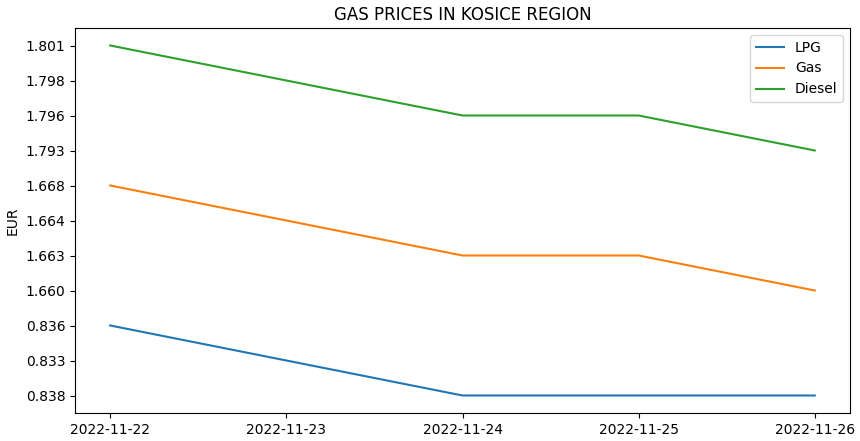
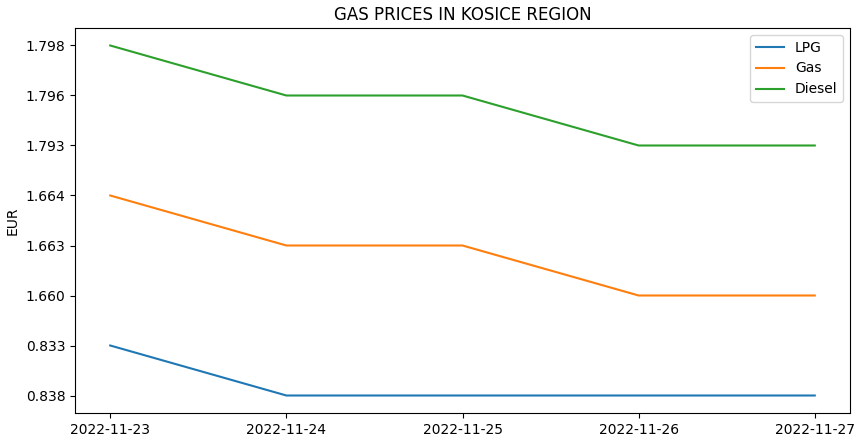
Updating web: 2022-11-27 06:11:05.517189

diff --git a/index.html b/index.html
@@ -15,9 +15,9 @@
   <body>
     <main>
       <header>
-        <h1>Today is Saturday, November 26th</h1>
-        <span>week 47, day 330 of the year</span>
-        <span>Today celebrates Kornel</span>
+        <h1>Today is Sunday, November 27th</h1>
+        <span>week 47, day 331 of the year</span>
+        <span>Today celebrates Milan</span>
       </header>
       <modal class="hidden">
         <div class="modal"></div>
@@ -31,27 +31,27 @@
           </article>
           <article class="aktuality">
             <h2>Aktuality</h2>
-            <div> ♦ <a href=https://www.aktuality.sk/clanok/kiLN4qq/poprad-zazil-prvy-bojkot-poslancov-v-historii-ani-to-neviem-vyslovit-hovoril-primator-danko/ target="_blank">Poprad zažil prvý bojkot poslancov v histórii. Ani to neviem vysloviť, hovoril primátor Danko</a></div><div> ♦ <a href=https://www.aktuality.sk/clanok/qcbd1VM/nocny-poziar-v-bytovom-dome-v-presove-si-vyziadal-dve-obete/ target="_blank">Nočný požiar v bytovom dome v Prešove si vyžiadal dve obete</a></div><div> ♦ <a href=https://www.aktuality.sk/clanok/B55z9v0/matovic-tvrdi-ze-sefovi-lekarskych-odborov-ponukal-funkciu-ministra-zdravotnictva/ target="_blank">Matovič tvrdí, že šéfovi lekárskych odborov ponúkal funkciu ministra zdravotníctva</a></div><div> ♦ <a href=https://www.aktuality.sk/clanok/HPPC12e/na-rovinu-s-tomasom-druckerom-lekari-mali-vziat-ponuku-vlady-s-dzurindom-sme-hovorili-o-strane/ target="_blank">NA ROVINU s Tomášom Druckerom: Lekári mali vziať ponuku vlády. S Dzurindom sme hovorili o strane</a></div><div> ♦ <a href=https://www.aktuality.sk/clanok/O7QfOoq/milan-lucansky-spachal-samovrazdu-konstatuje-vysetrovanie/ target="_blank">Milan Lučanský spáchal samovraždu, konštatuje vyšetrovanie</a></div>
+            <div> ♦ <a href=https://www.aktuality.sk/clanok/VeUVWkL/herecka-zdena-studenkova-dala-vypoved-v-snd/ target="_blank">Herečka Zdena Studenková dala výpoveď v SND</a></div><div> ♦ <a href=https://www.aktuality.sk/clanok/p1pHGeF/vypovede-lekarov-odborari-a-vlada-sa-dohodli/ target="_blank">Výpovede lekárov: Odborári a vláda sa dohodli</a></div><div> ♦ <a href=https://www.aktuality.sk/clanok/tYy2Fsb/briti-upozornili-na-miesto-kde-podla-nich-moze-povolit-ruska-obrana/ target="_blank">Briti upozornili na miesto, kde podľa nich môže povoliť ruská obrana</a></div><div> ♦ <a href=https://www.aktuality.sk/clanok/keawY7O/igor-matovic-uz-nebude-rokovat-s-lekarskymi-odbormi-dohodu-nechava-na-premierovi/ target="_blank">Igor Matovič už nebude rokovať s lekárskymi odbormi, dohodu necháva na premiérovi</a></div><div> ♦ <a href=https://www.aktuality.sk/clanok/QWIBxT7/lekarski-odborari-trvaju-na-zvysovani-platov-vratane-odmenovania-za-odpracovane-roky/ target="_blank">Lekárski odborári trvajú na zvyšovaní platov vrátane odmeňovania za odpracované roky</a></div>
           </article>
           <article class="rtvs">
             <h2>RTVS</h2>
-            <div class="rtvs1"><div> ♦ <a href=https://spravy.rtvs.sk/2022/11/zelenskyj-vyse-sest-milionov-domacnosti-je-stale-postihnutych-vypadkami-elektriny/ target="_blank">Zelenskyj: Vyše šesť miliónov domácností je stále postihnutých výpadkami elektriny</a></div><div> ♦ <a href=https://spravy.rtvs.sk/2022/11/ms-vo-futbale-2022-anglicania-nevyuzili-sancu-na-zaistenie-postupu-do-osemfinale/ target="_blank">MS vo futbale 2022: Angličania nevyužili šancu na zaistenie postupu do osemfinále</a></div><div> ♦ <a href=https://spravy.rtvs.sk/2022/11/pri-strelbe-na-dvoch-brazilskych-skolach-zahynuli-najmenej-traja-ludia/ target="_blank">Pri streľbe na dvoch brazílskych školách zahynuli najmenej traja ľudia</a></div><div> ♦ <a href=https://spravy.rtvs.sk/2022/11/sucasny-sef-bratislavskej-statnej-zachranky-neuspel-vo-vyberovom-konani-na-riaditela/ target="_blank">Súčasný šéf bratislavskej štátnej záchranky neuspel vo výberovom konaní na riaditeľa</a></div><div> ♦ <a href=https://spravy.rtvs.sk/2022/11/papez-frantisek-si-pripomenul-svetovy-den-odstranenia-nasilia-pachaneho-na-zenach/ target="_blank">Pápež František si pripomenul Svetový deň odstránenia násilia páchaného na ženách</a></div><div> ♦ <a href=https://spravy.rtvs.sk/2022/11/zacala-sa-sezona-kurierov-az-do-vianoc-sa-prakticky-nezastavia/ target="_blank">Začala sa sezóna kuriérov, až do Vianoc sa prakticky nezastavia</a></div><div> ♦ <a href=https://spravy.rtvs.sk/2022/11/ruske-ostrelovanie-zabilo-v-chersone-15-civilistov/ target="_blank">Ruské ostreľovanie zabilo v Chersone 15 civilistov</a></div><div> ♦ <a href=https://spravy.rtvs.sk/2022/11/lekarski-odborari-nechcu-slk-za-mediatora-na-rokovaniach-s-vladou/ target="_blank">Lekárski odborári nechcú SLK za mediátora na rokovaniach s vládou</a></div><div> ♦ <a href=https://spravy.rtvs.sk/2022/11/vypovede-lekarov-ohrozia-aj-transplantacie-organov/ target="_blank">Výpovede lekárov ohrozia aj transplantácie orgánov</a></div><div> ♦ <a href=https://spravy.rtvs.sk/2022/11/umeleckej-skole-v-kremnici-hrozi-zanik/ target="_blank">Umeleckej škole v Kremnici hrozí zánik</a></div></div>
+            <div class="rtvs1"><div> ♦ <a href=https://spravy.rtvs.sk/2022/11/ms-vo-futbale-2022-argentina-zdolala-mexiko-a-udrzala-sa-v-hre-o-postup/ target="_blank">MS vo futbale 2022: Argentína zdolala Mexiko a udržala sa v hre o postup</a></div><div> ♦ <a href=https://spravy.rtvs.sk/2022/11/vlada-vyriesila-s-lekarskymi-odborarmi-platy-a-dohodli-sa/ target="_blank">Vláda vyriešila s lekárskymi odborármi platy a dohodli sa</a></div><div> ♦ <a href=https://spravy.rtvs.sk/2022/11/briti-si-myslia-ze-opustit-europsku-uniu-bola-chyba/ target="_blank">Briti si myslia, že opustiť Európsku úniu bola chyba</a></div><div> ♦ <a href=https://spravy.rtvs.sk/2022/11/vlhova-skoncila-v-obrovskom-slalome-na-stvrtom-mieste/ target="_blank">Vlhová skončila v obrovskom slalome na štvrtom mieste</a></div><div> ♦ <a href=https://spravy.rtvs.sk/2022/11/most-v-namestove-je-pretazeny-hrozi-jeho-pad/ target="_blank">Most v Námestove je preťažený, hrozí jeho pád</a></div><div> ♦ <a href=https://spravy.rtvs.sk/2022/11/v-prahe-opat-demonstrovali-stovky-ludi-proti-vlade/ target="_blank">V Prahe opäť demonštrovali stovky ľudí proti vláde</a></div><div> ♦ <a href=https://spravy.rtvs.sk/2022/11/ms-vo-futbale-2022-francuzi-zdolali-danov-a-ako-prvi-postupili-do-osemfinale/ target="_blank">MS vo futbale 2022: Francúzi zdolali Dánov a ako prví postúpili do osemfinále</a></div><div> ♦ <a href=https://spravy.rtvs.sk/2022/11/vypinaju-verejne-osvetlenie-znizuju-teplotu-v-budovach-samospravy-bojuju-s-vysokymi-cenami/ target="_blank">Vypínajú verejné osvetlenie, znižujú teplotu. Samosprávy bojujú s vysokými cenami</a></div><div> ♦ <a href=https://spravy.rtvs.sk/2022/11/matovic-nebude-rokovat-s-loz-dohodu-nechava-na-premierovi/ target="_blank">Matovič nebude rokovať s LOZ, dohodu necháva na premiérovi</a></div><div> ♦ <a href=https://spravy.rtvs.sk/2022/11/v-prazskom-parku-nasli-tri-mrtve-osoby/ target="_blank">V pražskom parku našli tri mŕtve osoby</a></div></div>
             <button class="button-expand">EXPAND</button>
-            <div class="collapse rtvs2 hidden"><div> ♦ <a href=https://spravy.rtvs.sk/2022/11/ms-vo-futbale-2022-holandania-remizovali-s-ekvadorcanmi/ target="_blank">MS vo futbale 2022: Holanďania remizovali s Ekvádorčanmi</a></div><div> ♦ <a href=https://spravy.rtvs.sk/2022/11/mladi-svedski-aktivisti-zaluju-stat-za-neriesenie-klimatickych-otazok/ target="_blank">Mladí švédski aktivisti žalujú štát za neriešenie klimatických otázok</a></div><div> ♦ <a href=https://spravy.rtvs.sk/2022/11/nemecko-planuje-zjednodusit-podmienky-na-ziskanie-obcianstva/ target="_blank">Nemecko plánuje zjednodušiť podmienky na získanie občianstva</a></div><div> ♦ <a href=https://spravy.rtvs.sk/2022/11/ak-lekari-vypovede-nestiahnu-hrozi-kolaps-v-poskytovani-zdravotnej-sluzby/ target="_blank">Ak lekári výpovede nestiahnu, hrozí kolaps v poskytovaní zdravotnej služby</a></div><div> ♦ <a href=https://spravy.rtvs.sk/2022/11/britka-s-downovym-syndromom-prehrala-sudne-pri-ohladom-potratoveho-zakona/ target="_blank">Britka s Downovým syndrómom prehrala súd ohľadom potratového zákona</a></div><div> ♦ <a href=https://spravy.rtvs.sk/2022/11/raper-ye-chce-o-dva-roky-opat-kandidovat-na-post-americkeho-prezidenta/ target="_blank">Raper Ye chce opäť kandidovať na post amerického prezidenta</a></div><div> ♦ <a href=https://spravy.rtvs.sk/2022/11/europol-pri-obrovskom-zatahu-zatkol-44-ludi-sedem-z-nich-bolo-zo-slovenska/ target="_blank">Europol pri obrovskom záťahu zatkol 44 ľudí. Sedem z nich bolo zo Slovenska</a></div><div> ♦ <a href=https://spravy.rtvs.sk/2022/11/ms-vo-futbale-2022-neymar-nenastupi-proti-svajciarom/ target="_blank">MS vo futbale 2022: Neymar nenastúpi proti Švajčiarom</a></div><div> ♦ <a href=https://spravy.rtvs.sk/2022/11/dalsi-lekari-vypovedali-sluzby-na-december/ target="_blank">Ďalší lekári vypovedali služby na december</a></div><div> ♦ <a href=https://spravy.rtvs.sk/2022/11/ms-vo-futbale-2022-senegal-si-pripisal-prve-body-katar-s-dalsou-prehrou/ target="_blank">MS vo futbale 2022: Senegal si pripísal prvé body, Katar s ďalšou prehrou</a></div><div> ♦ <a href=https://spravy.rtvs.sk/2022/11/zamestnanci-amazonu-na-celom-svete-vyzvali-na-strajk-na-tzv-cierny-piatok/ target="_blank">Zamestnanci Amazonu na celom svete vyzvali na štrajk na tzv. čierny piatok</a></div><div> ♦ <a href=https://spravy.rtvs.sk/2022/11/videa-so-strelbou-na-ruskych-zajatcov-su-zrejme-autenticke-no-upravovane/ target="_blank">Videá so streľbou na ruských zajatcov sú zrejme autentické, no upravované</a></div><div> ♦ <a href=https://spravy.rtvs.sk/2022/11/o-post-ceskeho-prezidenta-sa-bude-uchadzat-devat-kandidatov/ target="_blank">O post českého prezidenta sa bude uchádzať deväť kandidátov</a></div><div> ♦ <a href=https://spravy.rtvs.sk/2022/11/prezidentka-proti-nasiliu-na-zenach-sa-musime-postavit-vsetci/ target="_blank">Prezidentka: Proti násiliu na ženách sa musíme postaviť všetci</a></div><div> ♦ <a href=https://spravy.rtvs.sk/2022/11/dodavky-prudu-sa-na-ukrajine-podarilo-obnovit-na-70-percent/ target="_blank">Dodávky prúdu sa na Ukrajine podarilo obnoviť na 70 percent</a></div><div> ♦ <a href=https://spravy.rtvs.sk/2022/11/unb-uz-neobjednava-pacientov-na-planovane-operacie-v-decembri/ target="_blank">UNB už neobjednáva pacientov na plánované operácie v decembri</a></div><div> ♦ <a href=https://spravy.rtvs.sk/2022/11/fifa-povolila-fanusikom-nosit-duhove-symboly-na-ms-v-katare/ target="_blank">FIFA povolila fanúšikom nosiť dúhové symboly na MS v Katare</a></div><div> ♦ <a href=https://spravy.rtvs.sk/2022/11/loz-premierova-ziadost-o-pomoc-od-krajin-v4-je-hanebnym-spravanim/ target="_blank">LOZ: Premiérova žiadosť o pomoc od krajín V4 je hanebným správaním</a></div><div> ♦ <a href=https://spravy.rtvs.sk/2022/11/zdravotnicki-pracovnici-chcu-systemove-zmeny/ target="_blank">Zdravotnícki pracovníci chcú systémové zmeny</a></div><div> ♦ <a href=https://spravy.rtvs.sk/2022/11/ms-vo-futbale-2022-iran-zdolal-wales-20/ target="_blank">MS vo futbale 2022: Irán zdolal Wales 2:0</a></div><div> ♦ <a href=https://spravy.rtvs.sk/2022/11/operacia-pri-svetle-baterky-rozsiahle-vypadky-energie-komplikuju-zivot-ukrajinskych-lekarov/ target="_blank">Operácia srdca pri svetle baterky. Výpadky energie komplikujú prácu ukrajinským lekárom</a></div><div> ♦ <a href=https://spravy.rtvs.sk/2022/11/fabriku-v-cina-po-protestoch-opustilo-20-000-zamestnancov/ target="_blank">Fabriku v Číne po protestoch opustilo 20  000 zamestnancov</a></div><div> ♦ <a href=https://spravy.rtvs.sk/2022/11/vo-washingtone-sa-podla-kritikov-rodi-protekcionizmus/ target="_blank">Vo Washingtone sa podľa kritikov rodí protekcionizmus</a></div><div> ♦ <a href=https://spravy.rtvs.sk/2022/11/pred-30-rokmi-poslanci-prijali-zakon-o-zaniku-cesko-slovenska/ target="_blank">Pred 30 rokmi poslanci prijali zákon o zániku Česko-Slovenska</a></div><div> ♦ <a href=https://spravy.rtvs.sk/2022/11/na-slovensku-zomrie-rocne-5-000-ludi-na-dosahy-znecistenia-ovzdusia/ target="_blank">Na Slovensku zomrie ročne 5  000 ľudí v dôsledku znečistenia ovzdušia</a></div><div> ♦ <a href=https://spravy.rtvs.sk/2022/11/adolf-peter-zaturecky-zbieral-prislovia-porekadla-a-uslovia/ target="_blank">Adolf Peter Záturecký zbieral príslovia, porekadlá a úslovia</a></div><div> ♦ <a href=https://spravy.rtvs.sk/2022/11/zelenskyj-mier-nebude-kym-sa-krym-nevrati-ukrajine/ target="_blank">Zelenskyj: Mier nebude, kým sa Krym nevráti Ukrajine</a></div><div> ♦ <a href=https://spravy.rtvs.sk/2022/11/polovica-domacnosti-v-kyjeve-je-po-ruskych-utokoch-stale-bez-elektriny/ target="_blank">Polovica domácností v Kyjeve je po ruských útokoch stále bez elektriny</a></div><div> ♦ <a href=https://spravy.rtvs.sk/2022/11/nato-bude-dodavat-vojensku-techniku-ukrajine-aj-pocas-zimy/ target="_blank">NATO bude dodávať vojenskú techniku Ukrajine aj počas zimy</a></div><div> ♦ <a href=https://spravy.rtvs.sk/2022/11/prokuratura-vylucila-cudzie-zavinenie-v-pripade-smrti-milana-lucanskeho/ target="_blank">Prokuratúra vylúčila cudzie zavinenie v prípade smrti Milana Lučanského</a></div><div> ♦ <a href=https://spravy.rtvs.sk/2022/11/sulik-sme-tesne-pred-kolapsom-zdravotnictva/ target="_blank">Sulík: Sme tesne pred kolapsom zdravotníctva</a></div><div> ♦ <a href=https://spravy.rtvs.sk/2022/11/ms-vo-futbale-2022-fanusikovia-v-kostyme-kriziaka-a-rytiera-sa-na-stadion-nedostanu/ target="_blank">MS vo futbale 2022: Fanúšikovia v kostýme križiaka a rytiera sa na štadión nedostanú</a></div><div> ♦ <a href=https://spravy.rtvs.sk/2022/11/pocet-umrti-na-slovensku-na-oktober-opat-presiahol-patrocny-priemer/ target="_blank">Počet úmrtí na Slovensku za október opäť presiahol päťročný priemer</a></div><div> ♦ <a href=https://spravy.rtvs.sk/2022/11/pred-70-rokmi-mala-premieru-najdlhsie-uvadzana-hra-na-svete/ target="_blank">Pred 70 rokmi mala premiéru najdlhšie uvádzaná hra na svete</a></div><div> ♦ <a href=https://spravy.rtvs.sk/2022/11/vitaz-izraelskych-volieb-ide-do-vlady-s-krajnou-pravicou/ target="_blank">Víťaz izraelských volieb ide do vlády s krajnou pravicou</a></div><div> ♦ <a href=https://spravy.rtvs.sk/2022/11/talentovani-studenti-ktori-zostali-studovat-v-sr-zatial-stipendia-nedostali/ target="_blank">Talentovaní študenti, ktorí zostali študovať v SR, zatiaľ štipendiá nedostali</a></div><div> ♦ <a href=https://spravy.rtvs.sk/2022/11/merkelova-priznala-ze-uz-na-putina-nemala-ziadne-paky/ target="_blank">Merkelová priznala, že na Putina už nemala žiadne páky</a></div><div> ♦ <a href=https://spravy.rtvs.sk/2022/11/britske-zdravotne-sestry-budu-strajkovat-prvykrat-po-100-rokoch/ target="_blank">Britské zdravotné sestry budú štrajkovať prvýkrát po 100 rokoch</a></div><div> ♦ <a href=https://spravy.rtvs.sk/2022/11/udzs-podal-trestne-oznamenie-pre-nezakonne-prepoistovanie/ target="_blank">ÚDZS podal trestné oznámenie pre nezákonné prepoisťovanie</a></div><div> ♦ <a href=https://spravy.rtvs.sk/2022/11/rusko-utratilo-za-vojnu-82-miliard-dolarov-pise-ukrajinsky-forbes/ target="_blank">Rusko utratilo za vojnu 82 miliárd dolárov, píše ukrajinský Forbes</a></div><div> ♦ <a href=https://spravy.rtvs.sk/2022/11/iran-informoval-osn-ze-jeho-utoky-na-irak-su-aktom-sebaobrany/ target="_blank">Irán informoval OSN, že jeho útoky na Irak sú aktom sebaobrany</a></div><div> ♦ <a href=https://spravy.rtvs.sk/2022/11/pod-rimskym-koloseom-nasli-kosti-levov-a-jaguarov-ci-semena-fig/ target="_blank">Pod rímskym Koloseom našli kosti levov a jaguárov či semená fíg</a></div><div> ♦ <a href=https://spravy.rtvs.sk/2022/11/v-presove-horel-bytovy-dom-poziar-vysetruju/ target="_blank">Pri požiari bytového domu v Prešove zomreli dvaja ľudia</a></div></div>
+            <div class="collapse rtvs2 hidden"><div> ♦ <a href=https://spravy.rtvs.sk/2022/11/univerzalna-vakcina-proti-chripke-moze-byt-k-dispozicii-do-dvoch-rokov-tvrdi-vedec/ target="_blank">Univerzálna vakcína proti chrípke môže byť k dispozícii do dvoch rokov, tvrdí vedec</a></div><div> ♦ <a href=https://spravy.rtvs.sk/2022/11/ms-vo-futbale-2022-poliaci-triumfovali-nad-saudskou-arabiou/ target="_blank">MS vo futbale 2022: Poliaci triumfovali nad Saudskou Arábiou</a></div><div> ♦ <a href=https://spravy.rtvs.sk/2022/11/vlhova-je-po-prvom-kole-obrovskeho-slalomu-na-stvrtom-mieste/ target="_blank">Vlhová je po prvom kole obrovského slalomu na štvrtom mieste</a></div><div> ♦ <a href=https://spravy.rtvs.sk/2022/11/rusi-zasiahli-obytnu-stvrt-v-dnipre-hlasia-najmenej-sest-zranenych/ target="_blank">Rusi zasiahli obytnú štvrť v Dnipre, hlásia najmenej 13 zranených</a></div><div> ♦ <a href=https://spravy.rtvs.sk/2022/11/nahle-zomrel-bielorusky-minister-zahranicia-vladimir-makei/ target="_blank">Náhle zomrel bieloruský minister zahraničia Vladimir Makei</a></div><div> ♦ <a href=https://spravy.rtvs.sk/2022/11/taiwanska-opozicia-vyhrala-miestne-volby-prezidentka-odchadza-z-cela-strany/ target="_blank">Taiwanská opozícia vyhrala miestne voľby, prezidentka odchádza z čela strany</a></div><div> ♦ <a href=https://spravy.rtvs.sk/2022/11/rusko-zaplati-za-vsetky-obete-stalinskeho-hladomoru-uviedol-ukrajinsky-cinitel/ target="_blank">Rusko zaplatí za všetky obete stalinského hladomoru, uviedol ukrajinský činiteľ</a></div><div> ♦ <a href=https://spravy.rtvs.sk/2022/11/pod-rukou-charlesa-schulza-sa-zrodil-legendarny-snoopy/ target="_blank">Pod rukou Charlesa Schulza sa zrodil legendárny Snoopy</a></div><div> ♦ <a href=https://spravy.rtvs.sk/2022/11/na-kysuciach-pri-celnej-zrazke-auta-s-kamionom-zomreli-dvaja-ludia/ target="_blank">Na Kysuciach pri čelnej zrážke auta s kamiónom zomreli dvaja ľudia</a></div><div> ♦ <a href=https://spravy.rtvs.sk/2022/11/sipos-veri-ze-sa-vlada-s-lekarmi-dohodne-uz-v-sobotu-ak-nie-nevylucil-nudzovy-stav/ target="_blank">Šipoš verí, že sa vláda s lekármi dohodne už v sobotu. Ak nie, tak nevylúčil núdzový stav</a></div><div> ♦ <a href=https://spravy.rtvs.sk/2022/11/ms-vo-futbale-2022-australia-zvitazila-nad-tuniskom/ target="_blank">MS vo futbale 2022: Austrália zvíťazila nad Tuniskom</a></div><div> ♦ <a href=https://spravy.rtvs.sk/2022/11/na-talianskom-ostrove-ischia-je-po-zosuve-pody-nezvestnych-13-ludi/ target="_blank">Zosuv pôdy na ostrove Ischia si vyžiadal jednu obeť, tvrdí starosta Neapola</a></div><div> ♦ <a href=https://spravy.rtvs.sk/2022/11/legendarny-sportovy-reporter-zelenay-sa-narodil-pred-100-rokmi/ target="_blank">Legendárny športový reportér Zelenay sa narodil pred 100 rokmi</a></div><div> ♦ <a href=https://spravy.rtvs.sk/2022/11/jaroslav-skala-zasvatil-svoj-zivot-boju-proti-alkoholizmu/ target="_blank">Jaroslav Skála zasvätil svoj život boju proti alkoholizmu</a></div><div> ♦ <a href=https://spravy.rtvs.sk/2022/11/rusko-nasadilo-na-ukrajine-strely-s-odstranenymi-jadrovymi-hlavicami-tvrdi-britania/ target="_blank">Rusko nasadilo na Ukrajine strely s odstránenými jadrovými hlavicami, tvrdí Británia</a></div><div> ♦ <a href=https://spravy.rtvs.sk/2022/11/zelenskyj-kritizoval-vedenie-kyjeva-za-nedostatocnu-pomoc-ludom-bez-prudu/ target="_blank">Zelenskyj kritizoval vedenie Kyjeva za nedostatočnú pomoc ľuďom bez prúdu</a></div><div> ♦ <a href=https://spravy.rtvs.sk/2022/11/eu-povolila-pouzivanie-smartfonov-pocas-letov/ target="_blank">EÚ povolila používanie smartfónov počas letov</a></div></div>
           </article>
           <article class="szgoodnews">
             <h2>Good news - Sunny skyz</h2>
-            <div> ♦ <a href=https://www.sunnyskyz.com/good-news/4858/105-Year-Old-Woman-Has-First-Birthday-Party-Receives-Over-1-200-Birthday-Cards target="_blank">105-Year-Old Woman Has First Birthday Party, Receives Over 1,200 Birthday Cards</a></div><div> ♦ <a href=https://www.sunnyskyz.com/good-news/4857/Grandma-And-Man-She-Accidentally-Texted-Spend-7th-Thanksgiving-Together target="_blank">Grandma And Man She Accidentally Texted Spend 7th Thanksgiving Together</a></div>
+            <div> ♦ <a href=https://www.sunnyskyz.com/good-news/4859/Bodycam-Footage-Shows-Brave-Officer-Who-Can-039-t-Swim-Rescue-A-Drowning-Infant target="_blank">Bodycam Footage Shows Brave Officer Who Can't Swim Rescue A Drowning Infant</a></div>
           </article>
           <article class="theverge">
             <h2>TheVerge</h2>
-            <div class="theverge1"><div> ♦ <a href=https://www.theverge.com/23477682/black-friday-2022-best-deals-tech-sales-gaming-headphones-tvs target="_blank">The best Black Friday 2022 deals you can get (No category)</a></div><div> ♦ <a href=https://www.theverge.com/23474206/black-friday-2022-tech-deals-under-25-cyber-monday-smart-home-streaming-gaming target="_blank">The best Black Friday deals under $25 (Deals)</a></div><div> ♦ <a href=https://www.theverge.com/23477686/walmart-black-friday-2022-best-tech-deals-cyber-monday-earbuds-gaming target="_blank">The best Black Friday deals you can get at Walmart (Deals)</a></div><div> ♦ <a href=https://www.theverge.com/23475747/best-black-friday-gaming-deals-games-xbox-ps5-headsets-mice-keyboards-controllers target="_blank">The best Black Friday gaming deals (Razer)</a></div><div> ♦ <a href=https://www.theverge.com/2022/11/25/23477656/amazon-black-friday-2022-deals-cyber-monday-tech-games-tv target="_blank">The best Black Friday deals at Amazon (Deals)</a></div><div> ♦ <a href=https://www.theverge.com/23466780/black-friday-2022-tech-deals-under-50-best-cyber-monday-earbuds-gaming target="_blank">The best Black Friday deals under $50 (Deals)</a></div><div> ♦ <a href=https://www.theverge.com/2022/11/25/23478396/internet-archive-palm-pilot-emulation-games-apps-dope-wars target="_blank">The Internet Archive just put 565 Palm Pilot apps in your web browser (No category)</a></div><div> ♦ <a href=https://www.theverge.com/2022/11/25/23478281/sony-wf-1000xm4-black-friday-noise-canceling-earbuds-deal-cyber-monday-sale target="_blank">Sony’s noise-canceling WF-1000XM4 earbuds are on sale for $100 off (Deals)</a></div><div> ♦ <a href=https://www.theverge.com/2022/11/25/23478206/irobot-roomba-i3-plus-evo-robot-vaccum-black-friday-deal-cyber-monday-sale target="_blank">iRobot’s terrific Roomba i3 Plus EVO is on sale for $200 off for Black Friday (Deals)</a></div><div> ♦ <a href=https://www.theverge.com/2022/11/25/23478132/fcc-china-huawei-zte-hikvision-camera-telecom-authorization-ban target="_blank">The FCC just banned these Chinese cameras and telecom hardware from reaching the US (Security)</a></div></div>
+            <div class="theverge1"><div> ♦ <a href=https://www.theverge.com/23475440/samsung-galaxy-z-fold-4-folding-phone-versatility-tablet-notepad target="_blank">The Galaxy Z Fold 4 is the most versatile gadget you can buy (No category)</a></div><div> ♦ <a href=https://www.theverge.com/23475599/black-friday-deals-gift-ideas-cyber-monday-holiday-shopping target="_blank">The best Black Friday deals you can still get that make for great gifts (Deals)</a></div><div> ♦ <a href=https://www.theverge.com/2022/11/26/23479275/twitter-executive-court-injunction-elon-musk-fired-sinead-mcsweeney target="_blank">A Twitter executive got a court injunction to prevent Elon Musk from firing her (Twitter)</a></div><div> ♦ <a href=https://www.theverge.com/23475851/black-friday-2022-phone-deals-cyber-monday-apple-iphone-samsung-google-motorola target="_blank">The best Black Friday 2022 phone deals you can still get (Mobile)</a></div><div> ♦ <a href=https://www.theverge.com/2022/11/26/23479297/black-friday-2022-nintendo-switch-bundle-mario-kart-online-deal-sale target="_blank">The Nintendo Switch is on sale with Mario Kart 8 Deluxe for just $299.99 (Deals)</a></div><div> ♦ <a href=https://www.theverge.com/23477736/black-friday-2022-tech-best-deals-under-50-cyber-monday target="_blank">The best Black Friday deals under $50 you can still get (Deals)</a></div><div> ♦ <a href=https://www.theverge.com/2022/11/26/23479247/amazon-black-friday-2022-kindle-paperwhite-ereader-tablet-eink-deal-sale target="_blank">Amazon’s latest Kindle Paperwhite is still available for its Black Friday price (Deals)</a></div><div> ♦ <a href=https://www.theverge.com/23473576/black-friday-2022-google-deals-cyber-monday-pixel-watch-buds-nest-chromecast target="_blank">The best Black Friday Google deals you can still get (Deals)</a></div><div> ♦ <a href=https://www.theverge.com/23466789/apple-black-friday-2022-deals-cyber-monday-macbook-ipad-airtags-watch target="_blank">The best Black Friday deals on Apple devices you can still get (Deals)</a></div><div> ♦ <a href=https://www.theverge.com/23466644/black-friday-2022-streaming-deals-cyber-monday-hulu-hbo-max-paramount-peacock target="_blank">These Black Friday streaming deals on Hulu, HBO Max, Paramount Plus, and more are still going (Deals)</a></div></div>
             <button class="button-expand">EXPAND</button>
-            <div class="collapse theverge2 hidden"><div> ♦ <a href=https://www.theverge.com/23466644/black-friday-2022-streaming-deals-cyber-monday-hulu-hbo-max-paramount-peacock target="_blank">The best Black Friday streaming deals on Hulu, HBO Max, Paramount Plus, and more (Deals)</a></div><div> ♦ <a href=https://www.theverge.com/23475045/black-friday-2022-smartwatch-deals-cyber-monday-fitness-trackers target="_blank">The best Black Friday deals on smartwatches and fitness trackers (Deals)</a></div><div> ♦ <a href=https://www.theverge.com/23473739/black-friday-2022-laptop-deals-cyber-monday-apple-microsoft-amazon target="_blank">The best Black Friday laptop deals (Deals)</a></div><div> ♦ <a href=https://www.theverge.com/2022/11/25/23477889/hulu-black-friday-streaming-deal-cyber-monday-ad-supported-tv-show-movie target="_blank">Get a year of Hulu’s ad-supported streaming for just $2 per month (Deals)</a></div><div> ♦ <a href=https://www.theverge.com/23475130/black-friday-2022-headphones-earbuds-deals-cyber-monday-airpods-bose-sony target="_blank">The best Black Friday 2022 deals on headphones and earbuds (Deals)</a></div><div> ♦ <a href=https://www.theverge.com/23473263/a-little-to-the-left-nintendo-switch-pc target="_blank">A Little to the Left is the perfect calming game to wind down with (Gaming)</a></div><div> ♦ <a href=https://www.theverge.com/23477816/verge-merch-store-black-friday-cyber-monday-sale-2022 target="_blank">Everything in the Verge merch store is half off for Black Friday! (Tech)</a></div><div> ♦ <a href=https://www.theverge.com/23477770/target-black-friday-2022-deals-cyber-monday-tech-games-streaming target="_blank">The best Black Friday deals you can get at Target (Deals)</a></div><div> ♦ <a href=https://www.theverge.com/2022/11/25/23475382/psychology-of-your-20s-podcast-spotify-anchor-hit target="_blank">Spotify wanted amateurs to make podcasts — now one of their shows is topping the charts (Hot Pod)</a></div><div> ♦ <a href=https://www.theverge.com/23477726/best-buy-black-friday-2022-cyber-monday-tech-deals-tvs-games-smartwatch target="_blank">The best Black Friday deals you can get at Best Buy (Deals)</a></div><div> ♦ <a href=https://www.theverge.com/2022/11/25/23477661/genesis-electrified-g80-review-range-specs-price target="_blank">Genesis Electrified G80 review: an unconventional cruise missile (Transpo)</a></div><div> ♦ <a href=https://www.theverge.com/23475111/black-friday-2022-tv-deals-cyber-monday-tcl-lg-samsung-sony target="_blank">The best Black Friday deals on 4K TVs (Deals)</a></div></div>
+            <div class="collapse theverge2 hidden"><div> ♦ <a href=https://www.theverge.com/2022/11/26/23479034/doj-investigating-rent-setting-software-company-realpage target="_blank">The DOJ is reportedly investigating rent-setting software company RealPage (Policy)</a></div><div> ♦ <a href=https://www.theverge.com/23475433/black-friday-2022-smart-home-tech-deals-cyber-monday target="_blank">The best Black Friday deals on smart home tech still to be had (Deals)</a></div><div> ♦ <a href=https://www.theverge.com/23474206/black-friday-2022-tech-deals-under-25-cyber-monday-smart-home-streaming-gaming target="_blank">The best Black Friday deals under $25 you can still get (Deals)</a></div><div> ♦ <a href=https://www.theverge.com/23472236/black-friday-2022-gaming-laptop-deals-cyber-monday-acer-asus-alienware-dell target="_blank">The best Black Friday deals on gaming laptops you can still get (Pc Gaming)</a></div><div> ♦ <a href=https://www.theverge.com/23475111/black-friday-2022-tv-deals-cyber-monday-tcl-lg-samsung-sony target="_blank">The best Black Friday deals you can still get on 4K TVs (Deals)</a></div><div> ♦ <a href=https://www.theverge.com/23473739/black-friday-2022-laptop-deals-cyber-monday-apple-microsoft-amazon target="_blank">The best Black Friday laptop deals you can still get (Deals)</a></div><div> ♦ <a href=https://www.theverge.com/23477686/walmart-black-friday-2022-best-tech-deals-cyber-monday-earbuds-gaming target="_blank">The best Black Friday deals you can still get at Walmart (Deals)</a></div><div> ♦ <a href=https://www.theverge.com/23477726/best-buy-black-friday-2022-cyber-monday-tech-deals-tvs-games-smartwatch target="_blank">The best Black Friday deals you can still get at Best Buy (Deals)</a></div><div> ♦ <a href=https://www.theverge.com/23477770/target-black-friday-2022-deals-cyber-monday-tech-games-streaming target="_blank">The best Black Friday deals you can still get at Target (Deals)</a></div><div> ♦ <a href=https://www.theverge.com/2022/11/25/23477656/amazon-black-friday-2022-deals-cyber-monday-tech-games-tv target="_blank">The best Black Friday deals at Amazon that you can still get (Deals)</a></div></div>
           </article>
           <article>
             <h2>Formula 1</h2>
-            <div> ♦ <a href=https://www.formula1.com//en/latest/article.say-what-enjoy-sebastian-vettels-ultimate-team-radio-collection-from-his.2uN0J7HubGkWk3RovZ8lGa.html target="_blank">SAY WHAT?! Enjoy Sebastian Vettel’s ultimate team radio collection from his time in F1</a></div><div> ♦ <a href=https://www.formula1.com//en/latest/article.max-by-numbers-the-incredible-stats-behind-verstappens-2022-championship.5CEqUJDvM2QHafTv0Zs63q.html target="_blank">MAX BY NUMBERS: The amazing stats behind Verstappen's 2022 title winning campaign</a></div><div> ♦ <a href=https://www.formula1.com//en/latest/article.its-been-a-hard-year-but-ive-learned-a-lot-tsunoda-insists-he-and-alphatauri.7HL5rovTkJJhQwQiJbT1Zg.html target="_blank">‘It’s been a hard year, but I’ve learned a lot’ – Tsunoda insists he and AlphaTauri will ‘be back strong’ in 2023</a></div><div> ♦ <a href=https://www.formula1.com//en/latest/article.there-was-no-need-for-some-of-his-criticism-ocon-disappointed-by-sour-end-to.15WFDf1I44Mb3YL6PCG4hm.html target="_blank">‘No need for some of his criticism’ – Ocon ‘disappointed’ by sour end to time as 'legend' Alonso’s team mate</a></div><div> ♦ <a href=https://www.formula1.com//en/latest/article.porsche-supercup-to-continue-as-f1-support-series-until-2030-under-new-deal.1uKnwh2eEd98ZyVEYIlBTd.html target="_blank">Porsche Supercup to continue as F1 support series until 2030 under new deal</a></div><div> ♦ <a href=https://www.formula1.com//en/latest/article.tremayne-farewell-sebastian-vettel-a-four-time-champion-with-conscience-and.6h5swo4iK68NEHUbVAgiCu.html target="_blank">TREMAYNE: Farewell Sebastian Vettel – a four-time champion with conscience and charisma to match</a></div>
+            <div> ♦ <a href=https://www.formula1.com//en/latest/article.watch-jolyon-palmer-explains-where-the-2022-season-was-won-and-lost-with-his.1tUnldgc0bz4Njpg5lVGOq.html target="_blank">WATCH: Jolyon Palmer explains where the season was won and lost with his end-of-year review</a></div><div> ♦ <a href=https://www.formula1.com//en/latest/article.say-what-enjoy-sebastian-vettels-ultimate-team-radio-collection-from-his.2uN0J7HubGkWk3RovZ8lGa.html target="_blank">SAY WHAT?! Enjoy Sebastian Vettel’s ultimate team radio collection from his time in F1</a></div><div> ♦ <a href=https://www.formula1.com//en/latest/article.watch-the-drivers-revisit-their-pre-season-predictions-for-2022-but-who-did.5nHb10iB8xSYRzQM4JFfM1.html target="_blank">WATCH: The drivers revisit their pre-season predictions for 2022 – but who got theirs right?</a></div><div> ♦ <a href=https://www.formula1.com//en/latest/article.max-by-numbers-the-incredible-stats-behind-verstappens-2022-championship.5CEqUJDvM2QHafTv0Zs63q.html target="_blank">MAX BY NUMBERS: The amazing stats behind Verstappen's 2022 title winning campaign</a></div><div> ♦ <a href=https://www.formula1.com//en/latest/article.its-been-a-hard-year-but-ive-learned-a-lot-tsunoda-insists-he-and-alphatauri.7HL5rovTkJJhQwQiJbT1Zg.html target="_blank">‘It’s been a hard year, but I’ve learned a lot’ – Tsunoda insists he and AlphaTauri will ‘be back strong’ in 2023</a></div><div> ♦ <a href=https://www.formula1.com//en/latest/article.there-was-no-need-for-some-of-his-criticism-ocon-disappointed-by-sour-end-to.15WFDf1I44Mb3YL6PCG4hm.html target="_blank">‘No need for some of his criticism’ – Ocon ‘disappointed’ by sour end to time as 'legend' Alonso’s team mate</a></div>
           </article>
           <article class="gas">
             <img class="benzin" src="./gas.png" />
@@ -65,60 +65,69 @@
           <article>
             <h2>English word of the day</h2>
             <div class="base"><table>
-        <tr><td rowspan="2"><h3 class="native">Jejune</h3></td>
-        <td style="text-align: left;"><span class="reading"><small><em>jih-JOON</em></small></span></td></tr>
-        <tr><td><span class="type"><small><strong><em>adjective</em></strong></small></span></td></tr></table>
-        <span class="meaning">Jejune is a formal word often used as a synonym of juvenile to describe things (such as behaviors, attitudes, etc.) that are immature, childish, or simplistic. It can also mean "uninteresting" or "boring." </span>
+        <tr><td rowspan="2"><h3 class="native">Sustain</h3></td>
+        <td style="text-align: left;"><span class="reading"><small><em>suh-STAYN</em></small></span></td></tr>
+        <tr><td><span class="type"><small><strong><em>verb</em></strong></small></span></td></tr></table>
+        <span class="meaning">Sustain means "to provide what is needed for something or someone to exist or continue; to nourish." It can also mean "to hold up the weight of," "to suffer or endure," or "to confirm or prove." In legal contexts, to sustain something is to decide or state that it is proper, legal, or fair.</span>
         </div><div class="sentences"><ul><li><div class="sentences">
-            <span class="sentence-native">Her rude and jejune remarks about the painting were entirely unbefitting someone of her stature in the art world.</span></li><li><div class="sentences">
-            <span class="sentence-native">The movie adaptation employed surreal visual effects to tell the story, making the plot, jejune in the novel, archetypal rather than artless.</span></li></ul></div>
+            <span class="sentence-native">Hope sustained us during that difficult time.</span></li><li><div class="sentences">
+            <span class="sentence-native">The shed roof collapsed, unable to sustain the weight of all the snow.</span></li><li><div class="sentences">
+            <span class="sentence-native">The athlete sustained serious injuries during last week's game.</span></li></ul></div>
           </article>
           <article>
             <h2>Spanish word of the day</h2>
             <table>
-        <tr><td><h3 class="native">Las sobras</h3></td></tr>
-        <tr><td><span class="meaning">Leftovers</span><br></td></tr></table><div class="sentences"><ul>
-        <li><span class="sentence-native"><strong>Voy a comer las sobras de ayer.</strong></span><br>
-        <span class="sentence-meaning">I'm going to eat the leftovers from yesterday.</span></li></ul></div>
+        <tr><td><h3 class="native">Roncar</h3></td></tr>
+        <tr><td><span class="meaning">To snore</span><br></td></tr></table><div class="sentences"><ul>
+        <li><span class="sentence-native"><strong>El cachorro ronca cuando duerme.</strong></span><br>
+        <span class="sentence-meaning">The puppy snores when he's asleep.</span></li></ul></div>
           </article>
           <article>
             <h2>Korean word of the day</h2>
             <div class="base"><table>
-        <tr><td rowspan="2"><h3 class="native">회계</h3></td>
-        <td><span class="reading"><small><em><a target="_blank" href="https://d1pra95f92lrn3.cloudfront.net/audio/232294.mp3">hoegye</em></small></a>
+        <tr><td rowspan="2"><h3 class="native">년</h3></td>
+        <td><span class="reading"><small><em><a target="_blank" href="https://d1pra95f92lrn3.cloudfront.net/audio/17972.mp3">nyeon</em></small></a>
         </span></td></tr>
-        <tr><td><span class="meaning">accounting</span><br></td></tr>
+        <tr><td><span class="meaning">year</span><br></td></tr>
         </table></div><div class="sentences"><ul><li><div class="sentences">
-            <span class="sentence-native"><strong>그들은 회계 문서를 보고 있습니다.</strong></span><br>
-            <span class="sentence-roman"><small><em><a href="https://d1pra95f92lrn3.cloudfront.net/audio/272358.mp3">Geudeureun hoegye munseoreul bogo itsseumnida.</a></em></small>
+            <span class="sentence-native"><strong>매년 저는 나이를 먹습니다.</strong></span><br>
+            <span class="sentence-roman"><small><em><a href="https://d1pra95f92lrn3.cloudfront.net/audio/370218.mp3">Maenyeon jeoneun naireul meoksseumnida.</a></em></small>
             </span><br>
-            <span class="sentence-meaning">They are looking at accounting documents.</span></li><li><div class="sentences">
-            <span class="sentence-native"><strong>회계 서류</strong></span><br>
-            <span class="sentence-roman"><small><em><a href="https://d1pra95f92lrn3.cloudfront.net/audio/370318.mp3">hoegye seoryu</a></em></small>
+            <span class="sentence-meaning">I get older every year.</span></li><li><div class="sentences">
+            <span class="sentence-native"><strong>저 냄비는 십 년 되었습니다.</strong></span><br>
+            <span class="sentence-roman"><small><em><a href="https://d1pra95f92lrn3.cloudfront.net/audio/982060.mp3">Jeo naembineun sim nyeon doeeotsseumnida.</a></em></small>
             </span><br>
-            <span class="sentence-meaning">accounting documents</span></li><li><div class="sentences">
-            <span class="sentence-native"><strong>전체 회계</strong></span><br>
-            <span class="sentence-roman"><small><em><a href="https://d1pra95f92lrn3.cloudfront.net/audio/370317.mp3">jeonche hoegye</a></em></small>
+            <span class="sentence-meaning">That pot is ten years old.</span></li><li><div class="sentences">
+            <span class="sentence-native"><strong>대학 사 년 동안 저는 기숙사에서 살았습니다.</strong></span><br>
+            <span class="sentence-roman"><small><em><a href="https://d1pra95f92lrn3.cloudfront.net/audio/986064.mp3">Daehak sa nyeon dongan jeoneun gisuksaeseo saratsseumnida.</a></em></small>
             </span><br>
-            <span class="sentence-meaning">full accounting</span></li></ul></div>
+            <span class="sentence-meaning">I lived in the dormitory for all four years of college.</span></li><li><div class="sentences">
+            <span class="sentence-native"><strong>버스 요금이 오 년 전보다 두 배로 뛰었습니다.</strong></span><br>
+            <span class="sentence-roman"><small><em><a href="https://d1pra95f92lrn3.cloudfront.net/audio/982063.mp3">Beoseu yogeumi o nyeon jeonboda du baero ttwieotsseumnida.</a></em></small>
+            </span><br>
+            <span class="sentence-meaning">The bus fare has doubled in the last five years.</span></li><li><div class="sentences">
+            <span class="sentence-native"><strong>일 년에는 십이 개월이 있습니다.</strong></span><br>
+            <span class="sentence-roman"><small><em><a href="https://d1pra95f92lrn3.cloudfront.net/audio/230309.mp3">Il nyeoneneun sibi gaewori itsseumnida.</a></em></small>
+            </span><br>
+            <span class="sentence-meaning">There are 12 months in a year.</span></li></ul></div>
           </article>
           <article>
             <h2>Japanese word of the day</h2>
             <div class="base"><table>
-        <tr><td rowspan="3"><h3 class="native">脱水症</h3></td>
-        <td><span class="reading"><small><em><a target="_blank" href="https://wotd.transparent.com/japanese/2021/words/JPNjp_00334.mp3">だっすいしょう
+        <tr><td rowspan="3"><h3 class="native">規則正しい</h3></td>
+        <td><span class="reading"><small><em><a target="_blank" href="https://wotd.transparent.com/japanese/2021/words/JPNjp_00335.mp3">きそくただしい
         </em></small></a></span></td></tr>
-        <tr><td><span class="type"><small><em><strong>noun</strong></em></small></span><br></td></tr>
-        <tr><td><span class="meaning">dehydration</span><br></td></tr></table></div><div class="sentences"><ul>
-        <li><span class="sentence-native"><strong>運動する時は水を飲んで、脱水症を防ぎましょう。</strong></span><br>
-        <span class="sentence-roman"><small><em><a href="https://wotd.transparent.com/japanese/2021/sentences/JPNjp_00700.mp3">うんどうするときはみずをのんで、だっすいしょうをふせぎましょう。
+        <tr><td><span class="type"><small><em><strong>i-adjective</strong></em></small></span><br></td></tr>
+        <tr><td><span class="meaning">regular, even, well-regulated</span><br></td></tr></table></div><div class="sentences"><ul>
+        <li><span class="sentence-native"><strong>規則正しい生活を続けるのは苦手です。</strong></span><br>
+        <span class="sentence-roman"><small><em><a href="https://wotd.transparent.com/japanese/2021/sentences/JPNjp_00701.mp3">きそくただしいせいかつをつづけるのはにがてです。
         </a></em></small></span><br>
-        <span class="sentence-meaning">When you exercise, drink water to prevent dehydration.</span></li></ul></div>
+        <span class="sentence-meaning">I struggle with keeping a well-regulated lifestyle.</span></li></ul></div>
           </article>
         </data>
       </content>
       <footer>
-          <div>Generated 2022-11-26 at 06:10:07</div>
+          <div>Generated 2022-11-27 at 06:10:07</div>
           <div><em><a href="mailto:kamil.democko@gmail.com">© Democko Kamil</a></em></div>
       </footer>
     </main>
